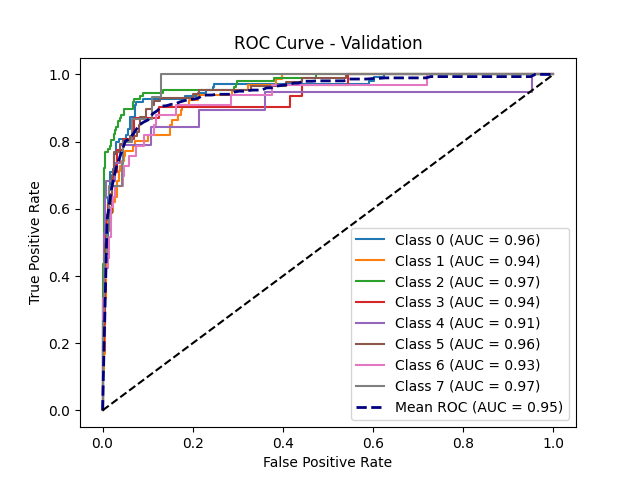
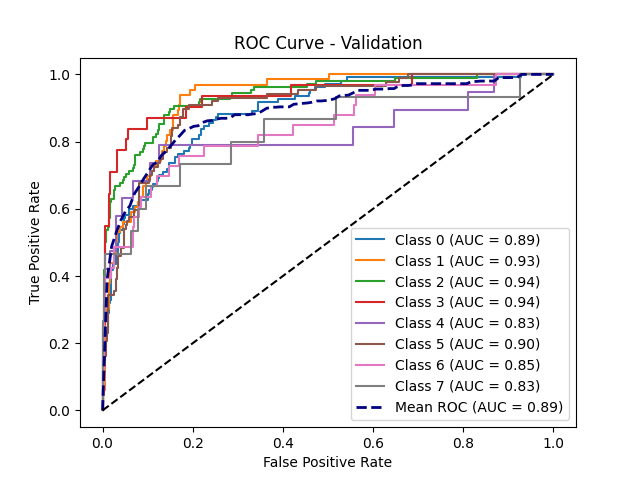
changed back to the ckpt

diff --git a/us_models.py b/us_models.py
@@ -261,7 +261,7 @@ class ThreeModalTransformerClassifier(nn.Module):
         super().__init__()
 
         self.sdf_model = SDFModel()
-        sdf_model_path = r"checkpoints\deeplabv3_sdf_randomcrop\model_20250711_201243\epoch_84" #r"../../codebase/codebase_washu2_PA_US_combined\checkpoints\sdf_model\epoch_84"
+        sdf_model_path =  r"../../codebase/codebase_washu2_PA_US_combined\checkpoints\sdf_model\epoch_84" #r"../../codebase/codebase_washu2_PA_US_combined\checkpoints\sdf_model\epoch_84"
         self.sdf_model.load_state_dict(torch.load(sdf_model_path))
         for p in self.sdf_model.parameters(): p.requires_grad = False
 
